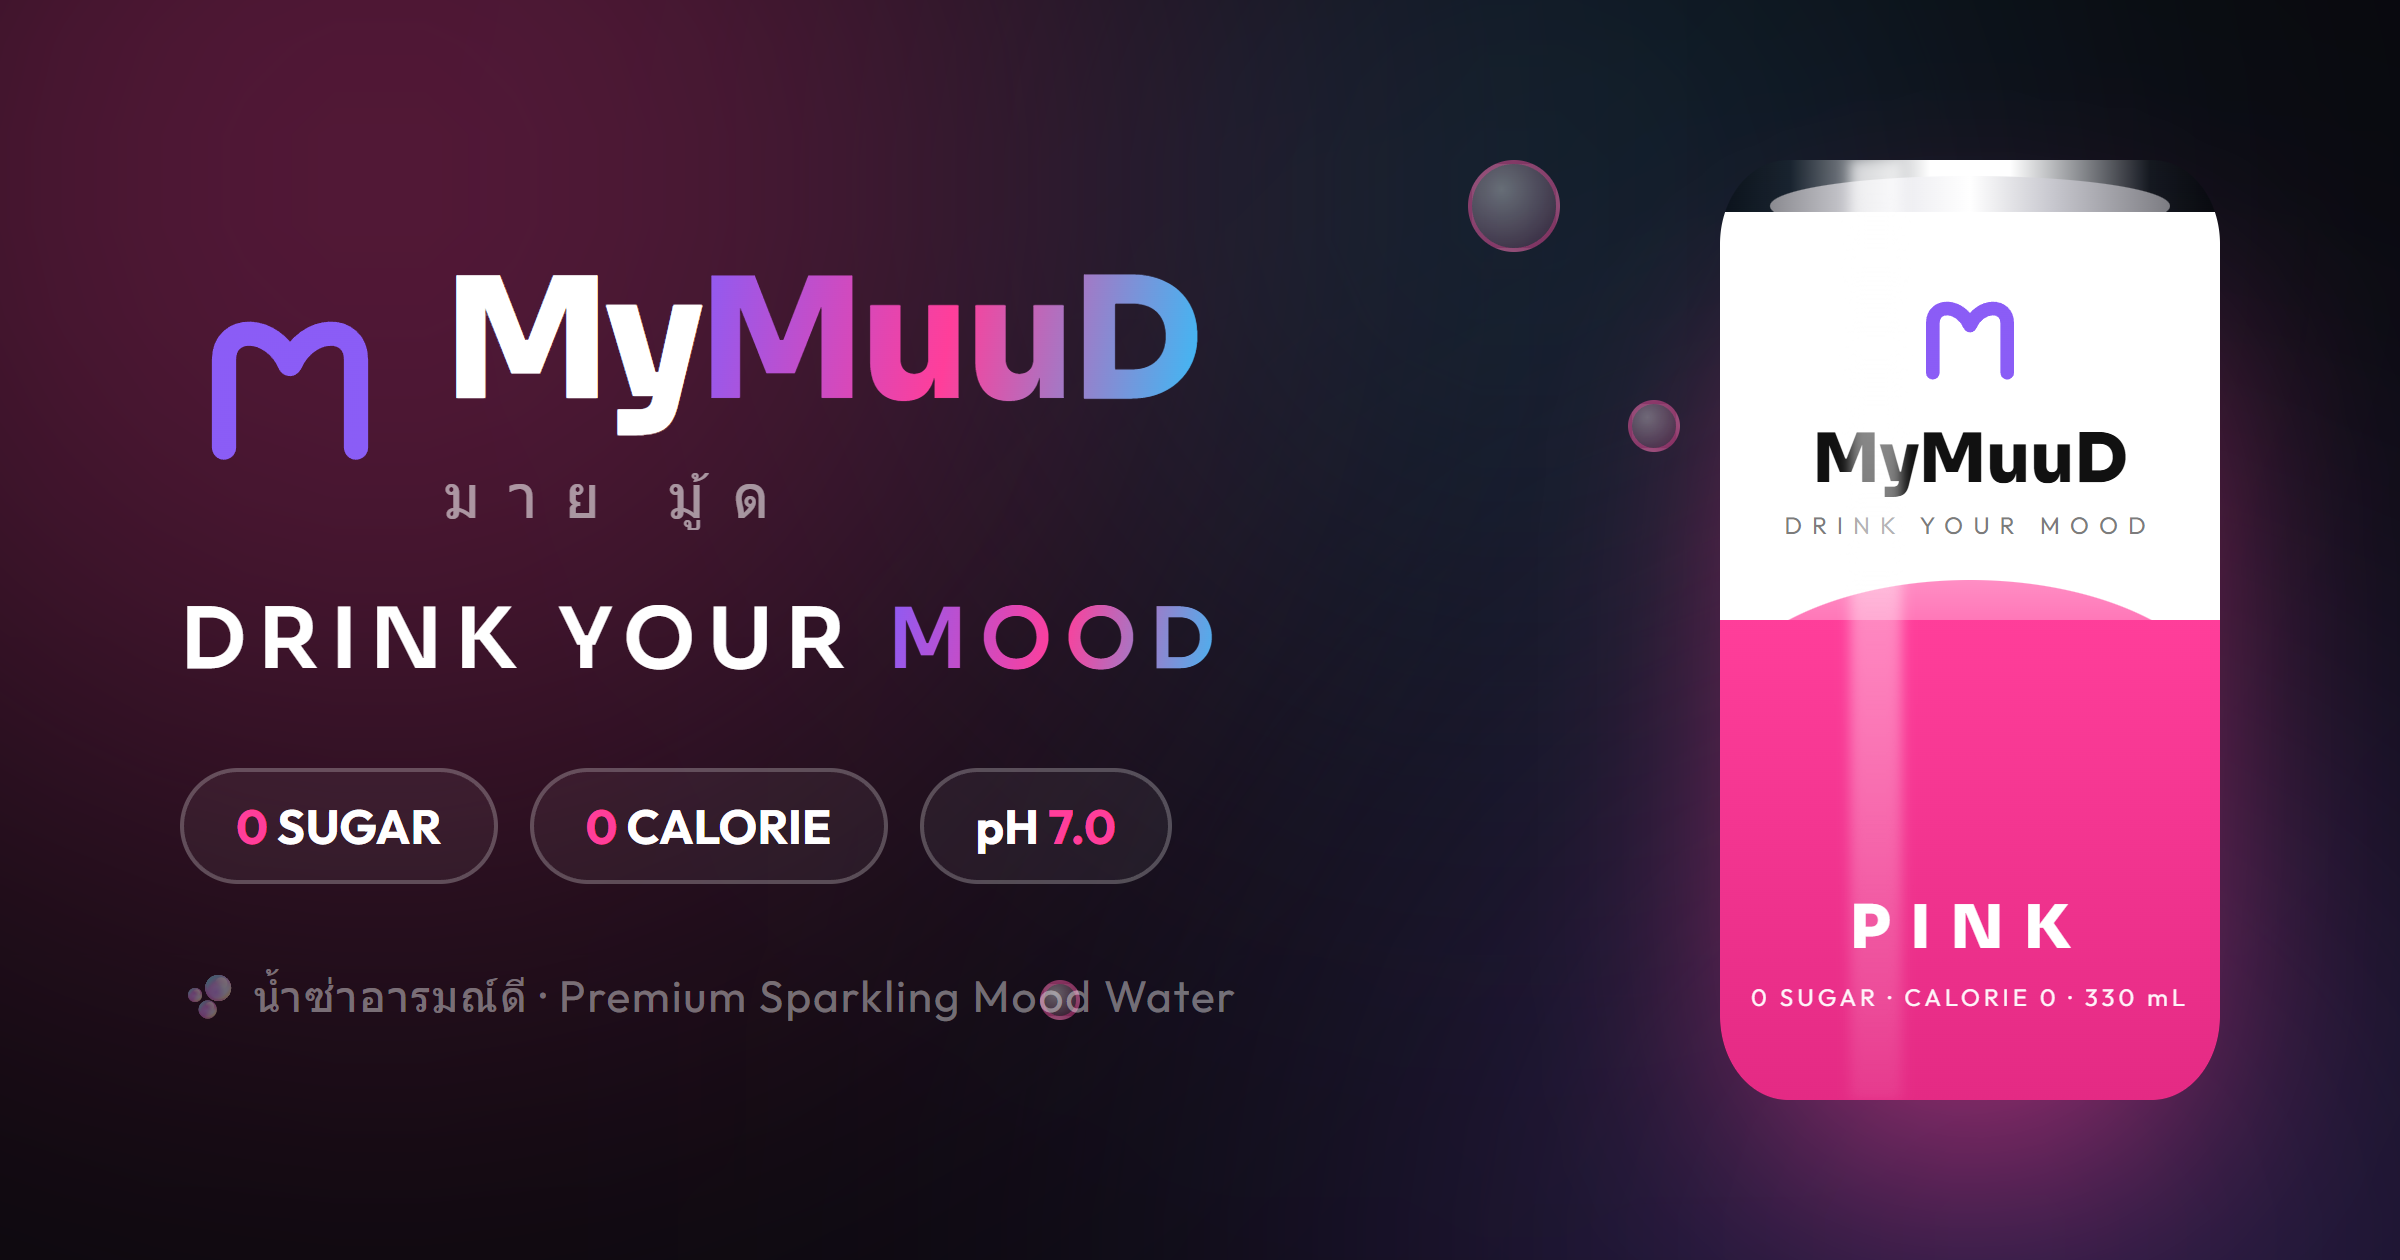
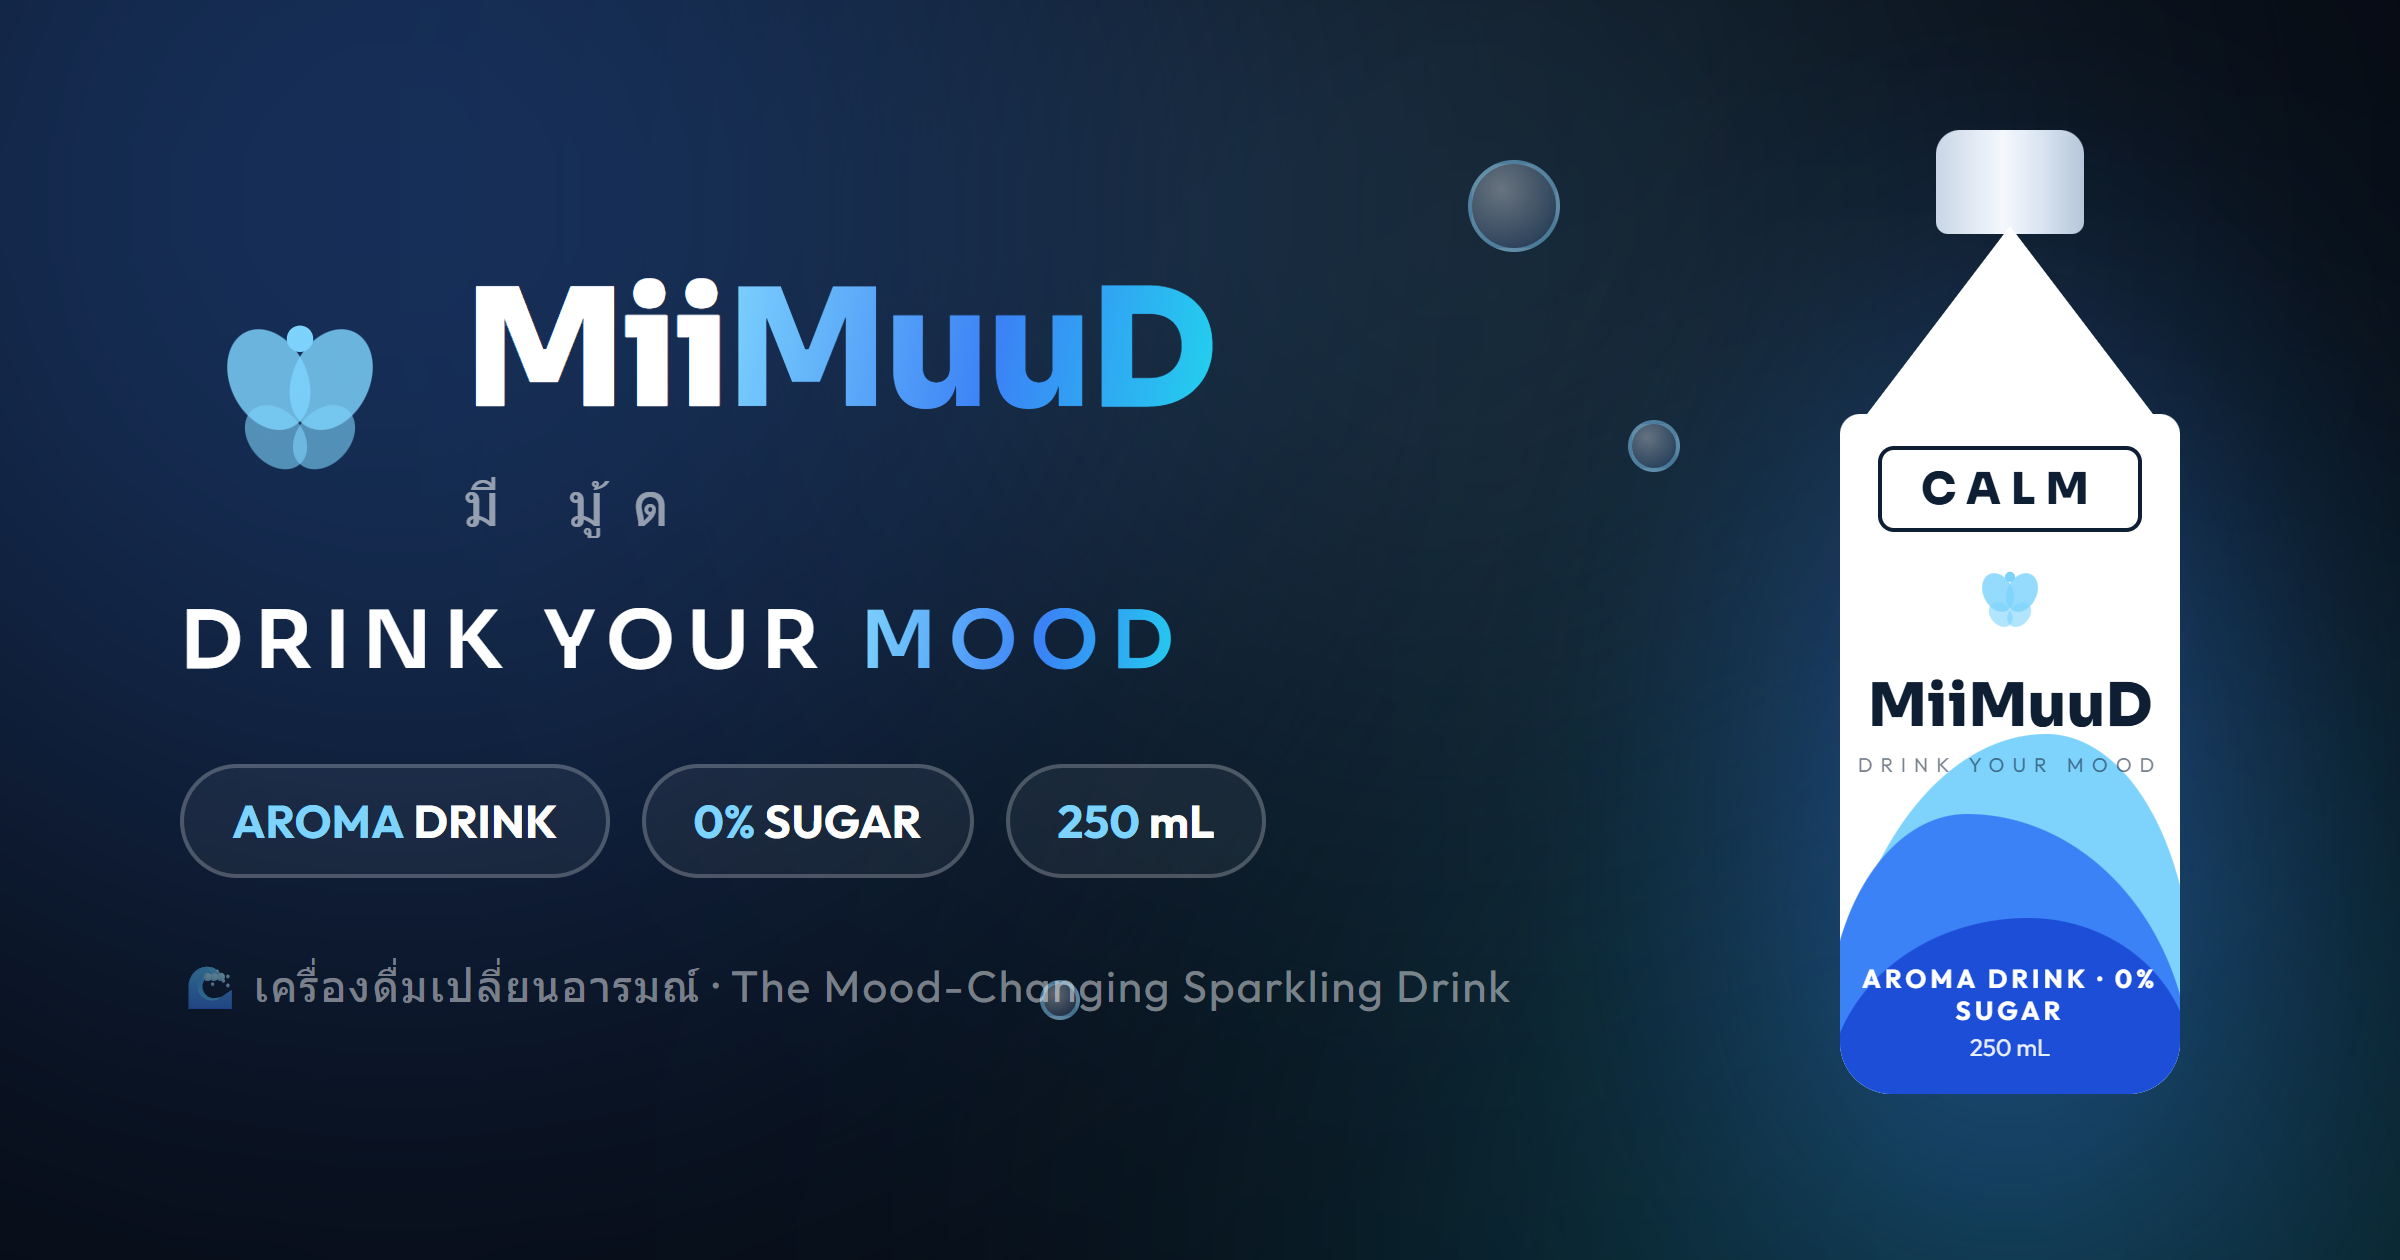
Full rebrand: MyMuuD → MiiMuuD (มี มู้ด) — sparkling aroma drink
Butterfly logo everywhere (SVG + canvas textures), CALM blue flagship theme,
3D can → 250mL bottle with cap + layered ocean-wave label, five scent moods
(CALM/JOY/RELAX/FRESH/BLISS), aroma-drink copy in English, new og share card.

diff --git a/README.md b/README.md
@@ -1,12 +1,12 @@
-# MyMuuD — Drink Your Mood 🫧
+# MiiMuuD — Drink Your Mood 🫧
 
-A premium, single-file promotional website for **MyMuuD** (มาย มู้ด) sparkling mood water — *0 Sugar · 0 Calorie · pH Balance · 330 mL*.
+A premium, single-file promotional website for **MiiMuuD** (มี มู้ด) sparkling mood water — *0 Sugar · 0 Calorie · pH Balance · 250 mL*.
 
 **Live site:** https://chainsukritthikan-lab.github.io/mymuud-website/
 
 ## Highlights
 - 🎬 Cinematic intro (liquid drop → ripple → logo → explosion → screen split)
-- 🥫 Real **WebGL 3D can** (Three.js) — drag to spin, tap to pop the lid open, double-click to barrel-roll, tilt your phone to move it
+- 🥫 Real **WebGL 3D bottle** (Three.js) — drag to spin, tap to pop the lid open, double-click to barrel-roll, tilt your phone to move it
 - 📜 6-chapter **scroll-film** — the can stays pinned and rotates through the brand story as you scroll
 - 🫧 Interactive 3D bubbles that scatter from your cursor
 - 💗 **Mood Lab** — blend two moods, name your own flavor, download a shareable card
@@ -24,4 +24,4 @@ python -m http.server 8000
 # open http://localhost:8000
 ```
 
-© 2026 MyMuuD · มาย มู้ด — Drink Your Mood.
+© 2026 MiiMuuD · มี มู้ด — Drink Your Mood.